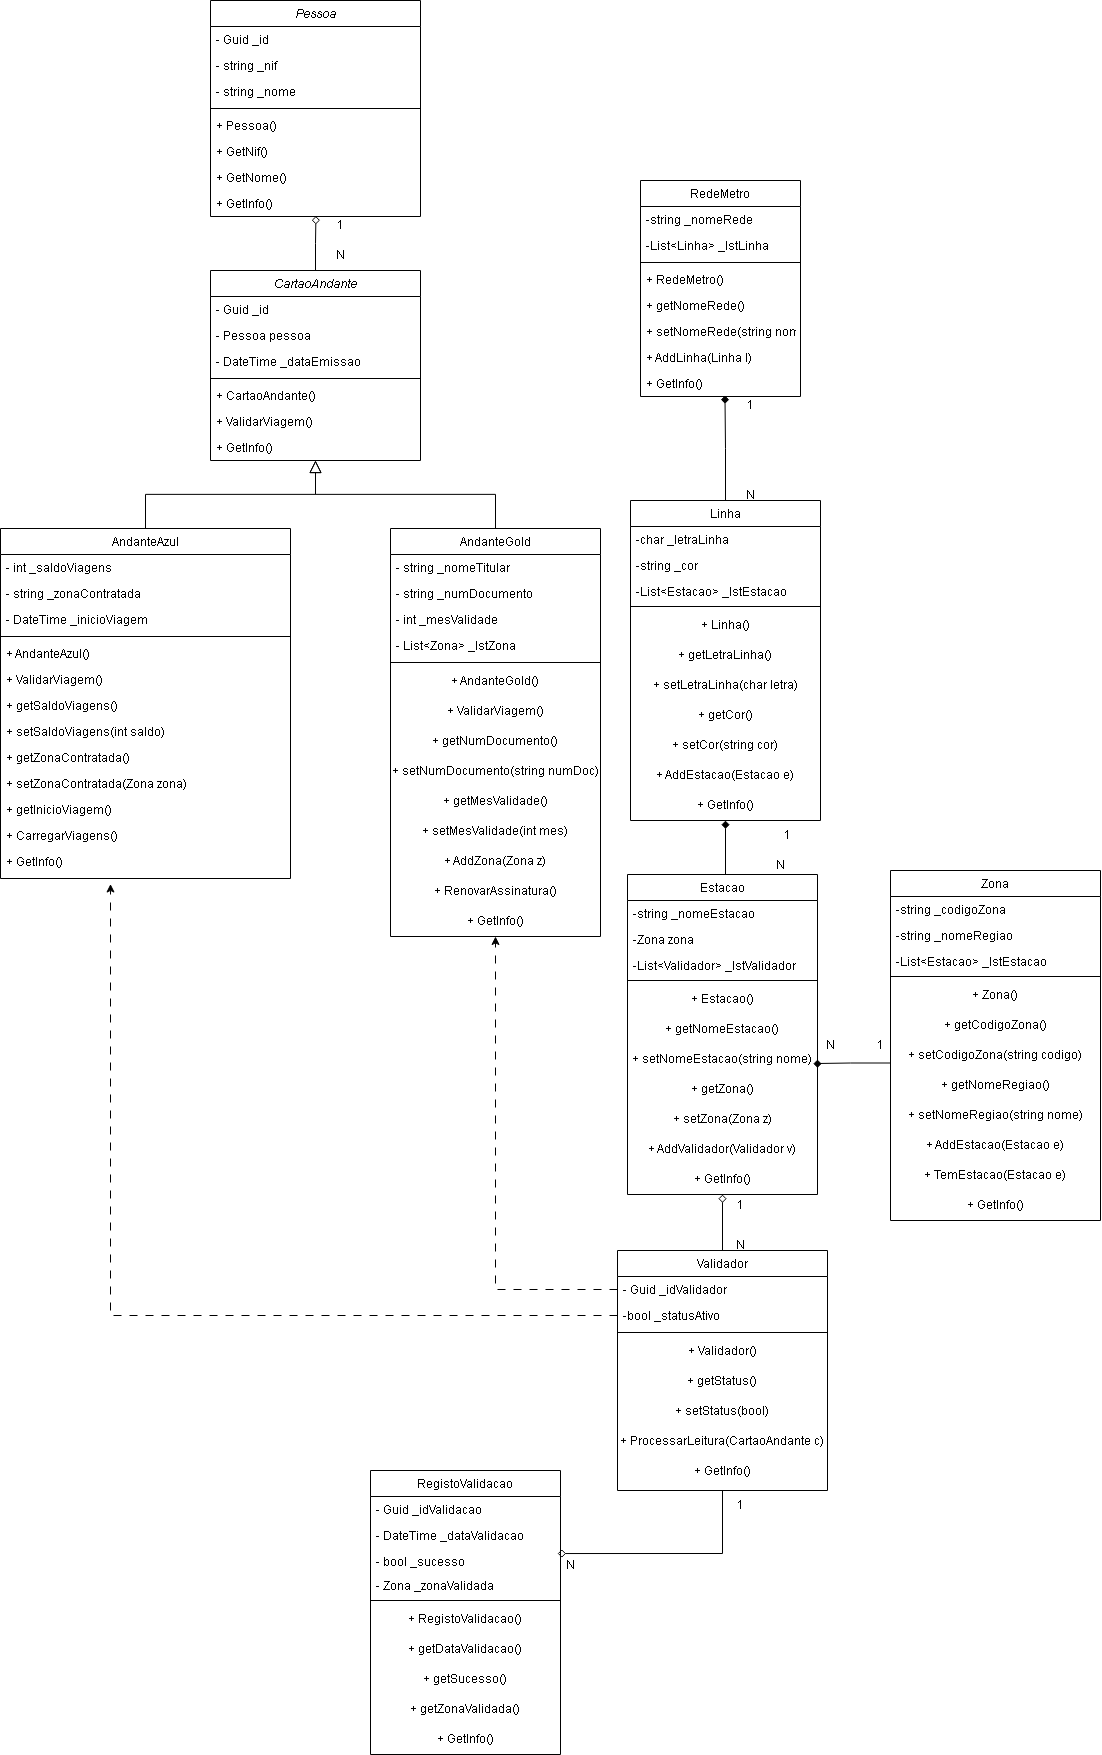
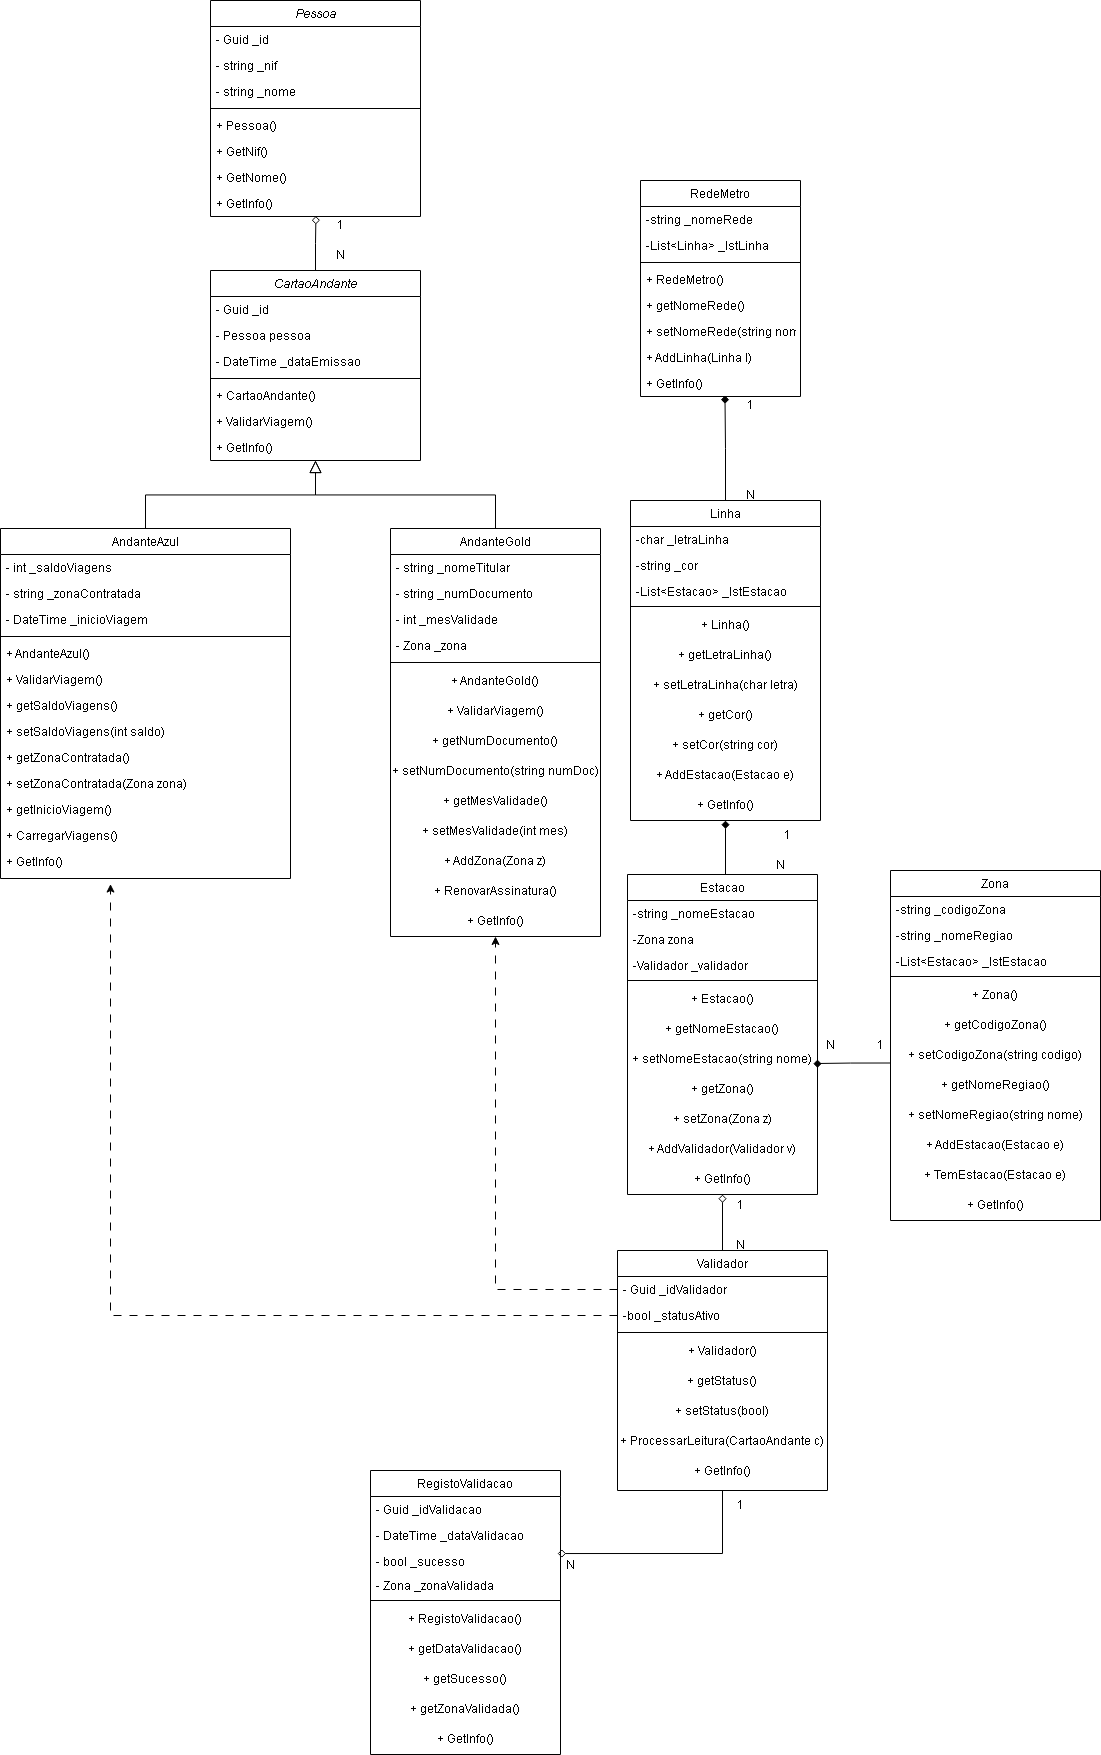
docs: update docs

diff --git a/src/AndanteSys/Views/ClienteWindow.xaml.cs b/src/AndanteSys/Views/ClienteWindow.xaml.cs
@@ -39,19 +39,19 @@ namespace AndanteSys.Views
                 return;
             }
 
-            // try to find by card id (guid short) or by NIF
+            // tenta encontrar o cartao
             AndanteSys.Models.CartaoAndante cartaoEncontrado = null;
-            // search by full GUID
+            // pesquisa pelo GUID
             cartaoEncontrado = App.lstCartoes.FirstOrDefault(c => c.IdCartao.ToString().Equals(input, StringComparison.OrdinalIgnoreCase));
             if (cartaoEncontrado == null)
             {
-                // try by short prefix (first 8 chars)
+                // tenta os primeiros 8 caracteres
                 cartaoEncontrado = App.lstCartoes.FirstOrDefault(c => c.IdCartao.ToString().StartsWith(input, StringComparison.OrdinalIgnoreCase));
             }
 
             if (cartaoEncontrado == null)
             {
-                // try lookup by NIF
+                // pesquisa pelo NIF
                 var pessoa = App.lstPessoas.FirstOrDefault(p => p.NIF == input);
                 if (pessoa != null)
                 {
@@ -130,7 +130,6 @@ namespace AndanteSys.Views
                 return;
             }
 
-            // use the station's validador to process read (this will create and persist RegistoValidacao)
             bool resultado = false;
             if (estacao.Validador != null)
             {